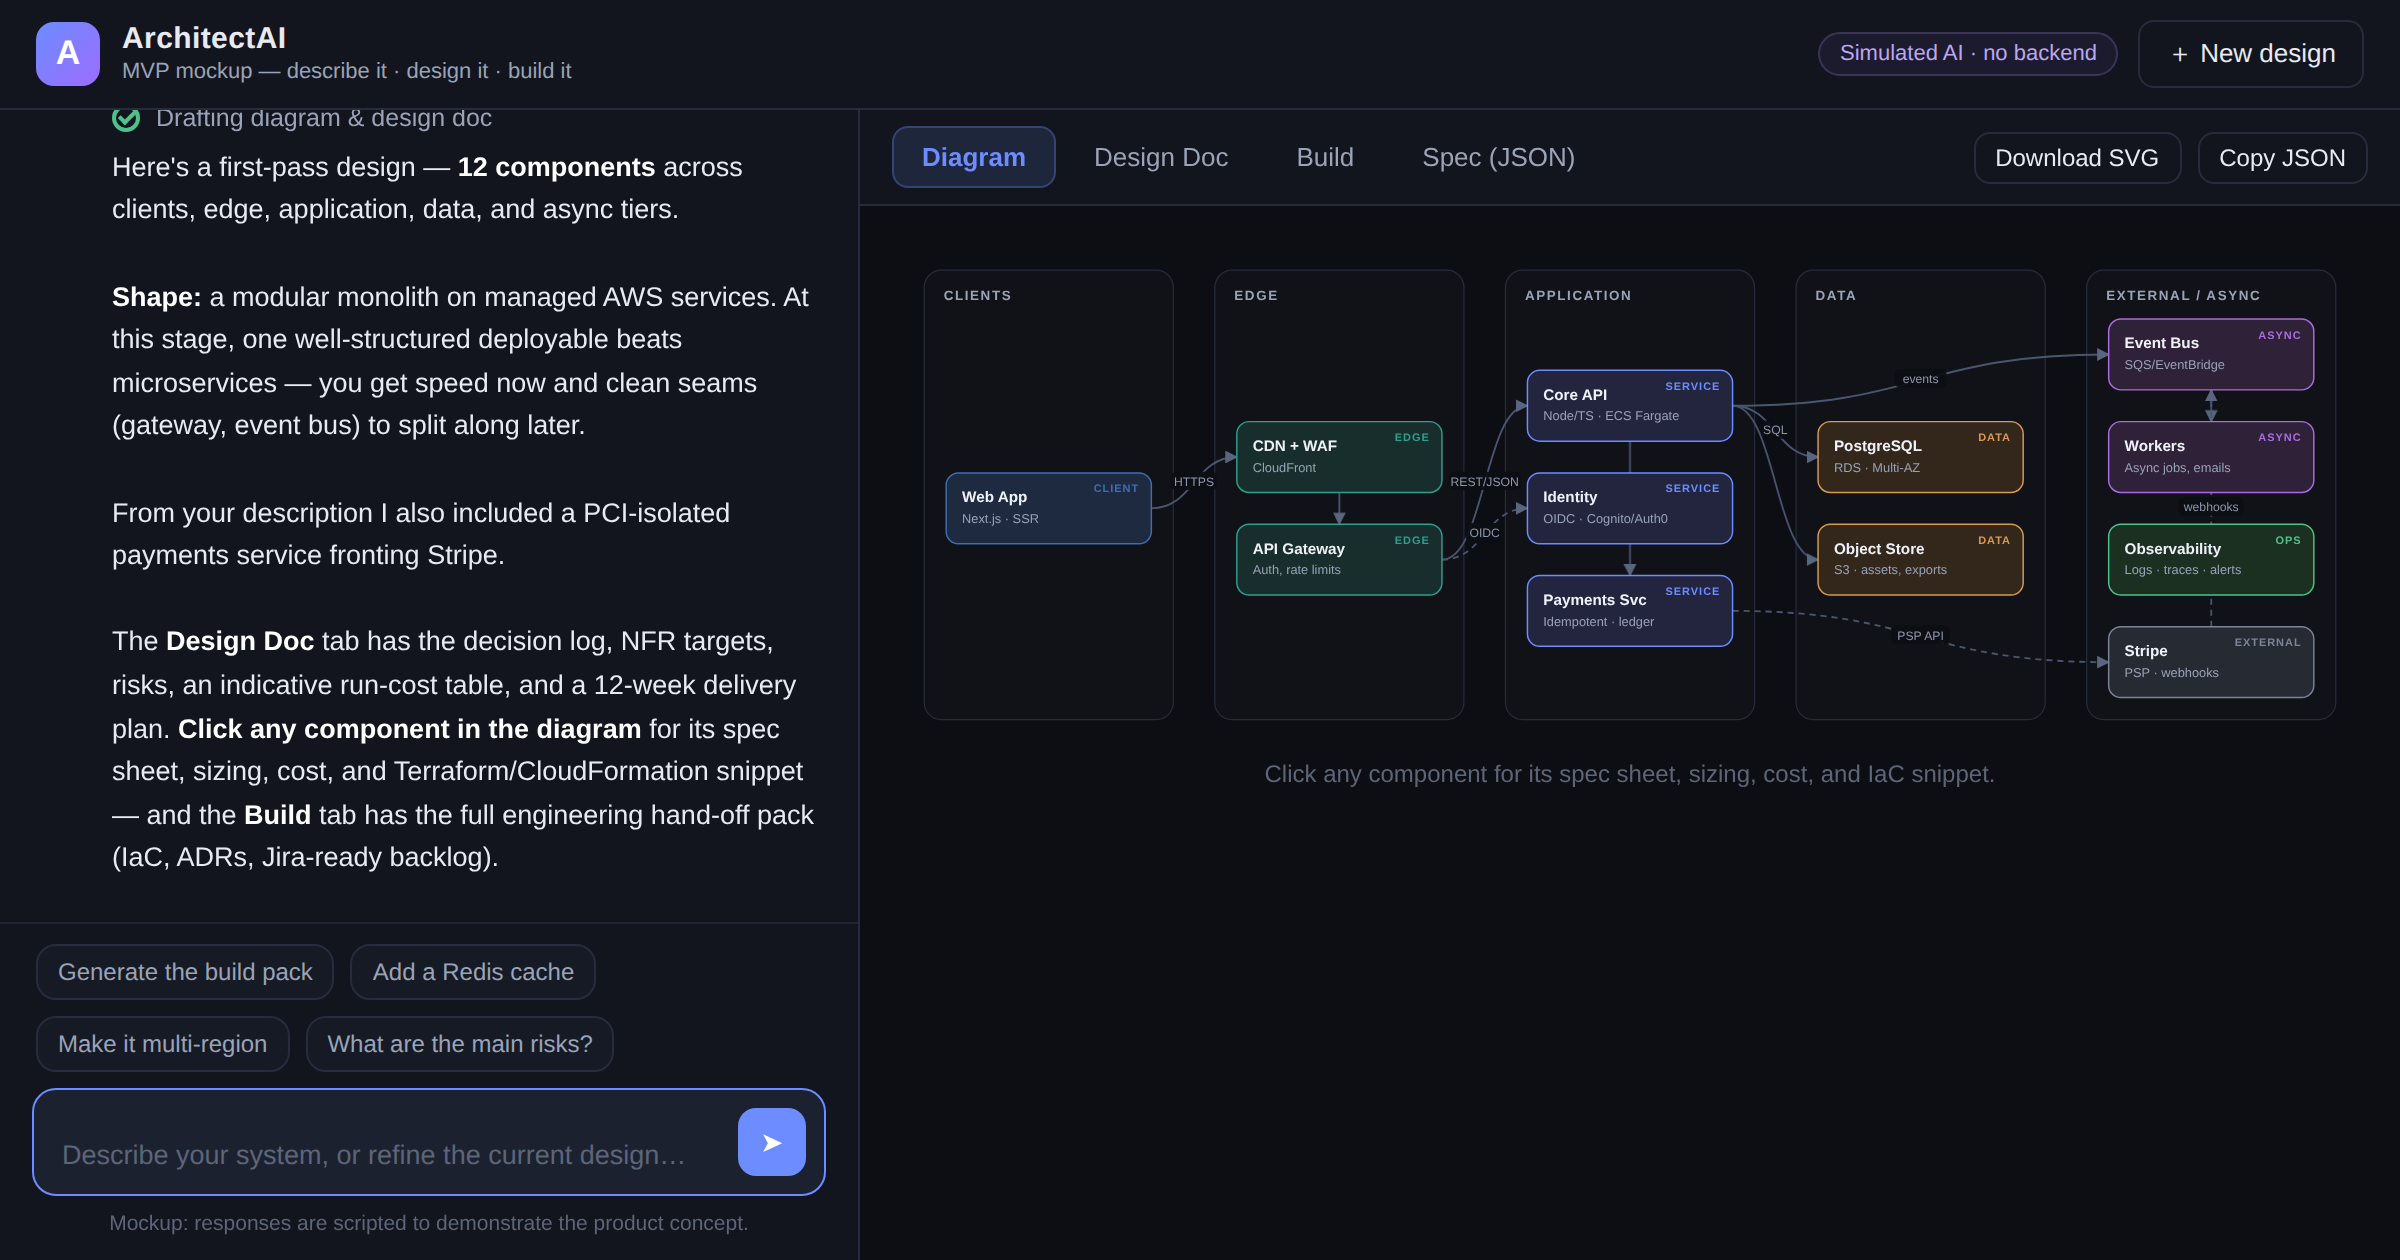
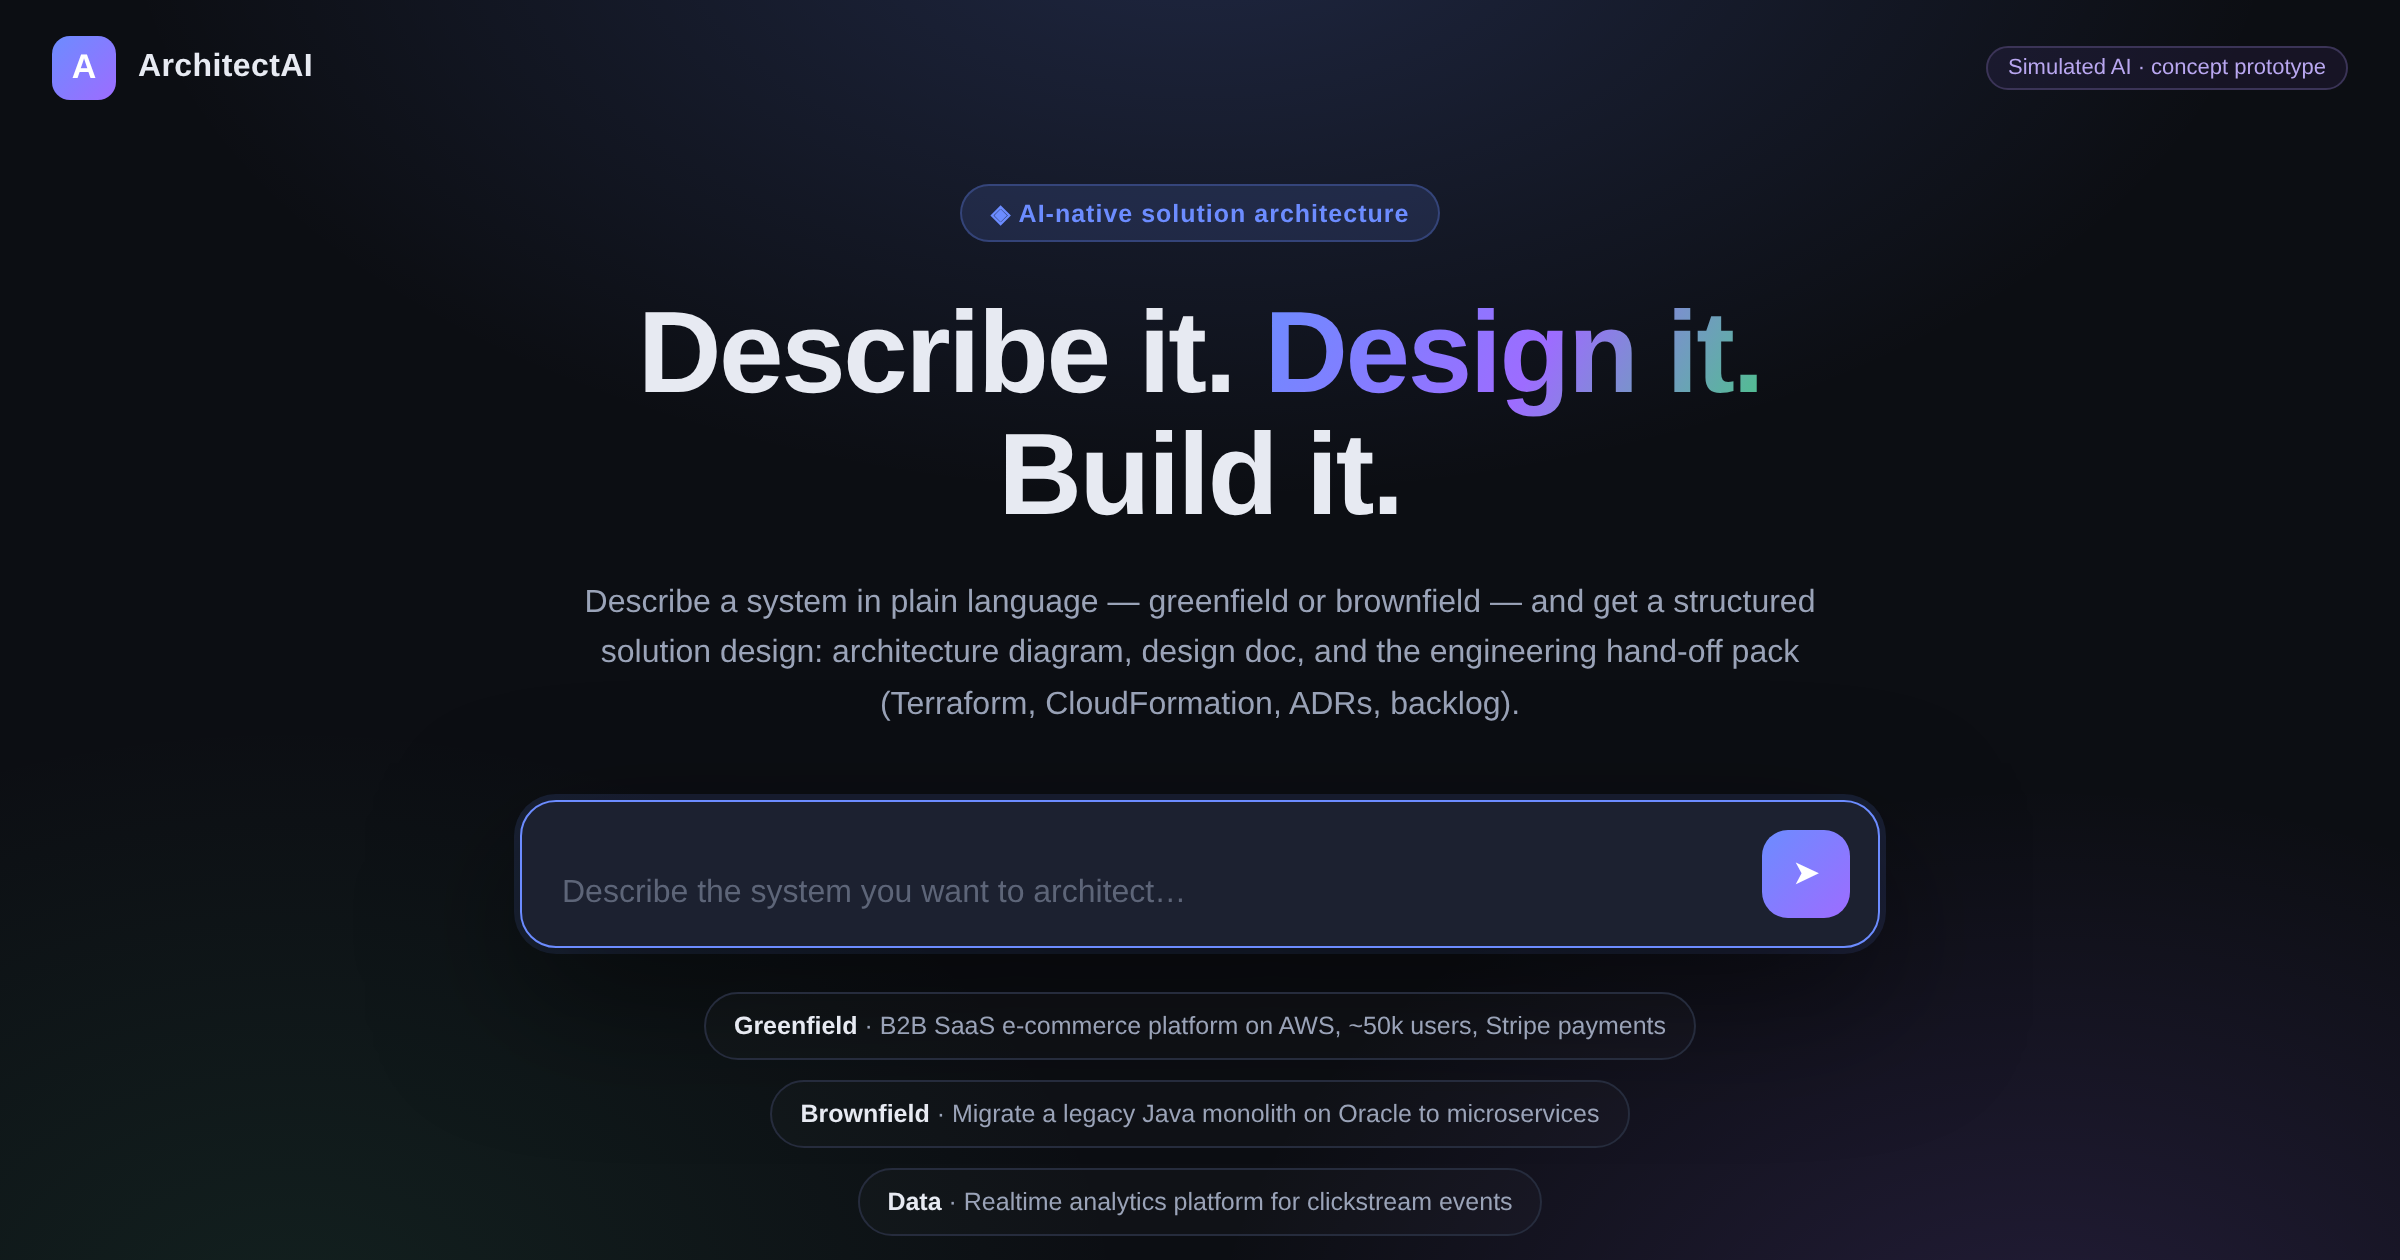
Redesign interface Base44-style: landing hero + builder workspace
Goal: describe it, design it, build it — with a Base44-like experience.

- New landing/hero entry screen: gradient backdrop, large headline,
  one prominent prompt box, and example scenario chips. This is the
  first thing visitors see.
- Submitting transitions into the builder: chat panel + the design
  output framed in a browser window (traffic-light dots, live URL pill
  that reflects the design slug), reinforcing 'build it'.
- Logo and 'New design' return to the landing prompt; reset logic
  factored into resetDesign()/goHome()/enterApp().
- Regenerated social preview to feature the new hero.
- README updated to describe the new flow.

https://claude.ai/code/session_017RfsfpWvppuw8DnKq2H5cR

diff --git a/styles.css b/styles.css
@@ -32,6 +32,168 @@ body {
   overflow: hidden;
 }
 
+/* ===================================================================
+   LANDING / HERO  (Base44-style entry screen)
+   =================================================================== */
+#landing {
+  position: fixed;
+  inset: 0;
+  z-index: 100;
+  display: flex;
+  flex-direction: column;
+  background:
+    radial-gradient(900px 500px at 50% -8%, rgba(108,140,255,.20), transparent 60%),
+    radial-gradient(700px 500px at 85% 110%, rgba(157,108,255,.16), transparent 60%),
+    radial-gradient(700px 500px at 12% 105%, rgba(76,195,138,.10), transparent 60%),
+    var(--bg);
+  overflow-y: auto;
+}
+#landing[hidden] { display: none; }
+
+.landing-nav {
+  display: flex; align-items: center; justify-content: space-between;
+  padding: 18px 26px;
+  flex: 0 0 auto;
+}
+.landing-nav .brand-name { font-size: 16px; font-weight: 700; }
+
+.hero {
+  flex: 1 1 auto;
+  display: flex;
+  flex-direction: column;
+  align-items: center;
+  justify-content: center;
+  text-align: center;
+  padding: 24px 22px 60px;
+  max-width: 820px;
+  margin: 0 auto;
+  width: 100%;
+}
+
+.hero-eyebrow {
+  font-size: 12.5px; font-weight: 600; letter-spacing: .5px;
+  color: var(--accent);
+  background: var(--accent-soft);
+  border: 1px solid rgba(108,140,255,.28);
+  padding: 6px 14px; border-radius: 999px;
+  margin-bottom: 26px;
+}
+
+.hero-title {
+  font-size: clamp(34px, 6vw, 58px);
+  line-height: 1.05;
+  font-weight: 800;
+  letter-spacing: -1.2px;
+  margin-bottom: 20px;
+}
+.hero-title .nb { white-space: nowrap; }
+.hero-title .grad {
+  background: linear-gradient(120deg, #6c8cff, #9d6cff 55%, #4cc38a);
+  -webkit-background-clip: text; background-clip: text;
+  -webkit-text-fill-color: transparent; color: transparent;
+}
+
+.hero-sub {
+  font-size: 16px;
+  line-height: 1.6;
+  color: var(--text-dim);
+  max-width: 620px;
+  margin: 0 auto 34px;
+}
+
+.hero-prompt {
+  width: 100%;
+  max-width: 680px;
+  display: flex;
+  align-items: flex-end;
+  gap: 10px;
+  background: var(--bg-input);
+  border: 1px solid var(--border);
+  border-radius: 18px;
+  padding: 14px 14px 14px 20px;
+  box-shadow: 0 24px 60px rgba(0,0,0,.45), 0 0 0 1px rgba(108,140,255,.05);
+  transition: border-color .15s, box-shadow .15s;
+}
+.hero-prompt:focus-within {
+  border-color: var(--accent);
+  box-shadow: 0 24px 70px rgba(0,0,0,.5), 0 0 0 3px var(--accent-soft);
+}
+.hero-prompt textarea {
+  flex: 1;
+  background: transparent; border: none; outline: none; resize: none;
+  color: var(--text);
+  font-family: var(--sans);
+  font-size: 16px; line-height: 1.5;
+  max-height: 160px;
+  padding-top: 6px;
+}
+.hero-prompt textarea::placeholder { color: var(--text-faint); }
+.hero-send {
+  flex: 0 0 44px; width: 44px; height: 44px;
+  border-radius: 13px; border: none;
+  background: linear-gradient(135deg, #6c8cff, #9d6cff);
+  color: #fff; font-size: 17px; cursor: pointer;
+  transition: filter .15s, transform .05s;
+}
+.hero-send:hover { filter: brightness(1.12); }
+.hero-send:active { transform: scale(.96); }
+
+.hero-chips {
+  display: flex; flex-wrap: wrap; gap: 10px;
+  justify-content: center;
+  margin-top: 22px;
+  max-width: 720px;
+}
+.hero-chips .chip {
+  font-size: 12.5px;
+  padding: 9px 14px;
+  border-radius: 999px;
+  border: 1px solid var(--border);
+  background: rgba(255,255,255,.02);
+  color: var(--text-dim);
+  cursor: pointer;
+  transition: border-color .15s, color .15s, background .15s;
+}
+.hero-chips .chip:hover { border-color: var(--accent); color: var(--text); background: var(--accent-soft); }
+.hero-chips .chip b { color: var(--text); font-weight: 600; }
+
+.hero-note { font-size: 12px; color: #5d6578; margin-top: 28px; }
+
+#app[hidden] { display: none; }
+#app { flex: 1 1 auto; display: flex; flex-direction: column; min-height: 0; animation: appfade .35s ease-out; }
+@keyframes appfade { from { opacity: 0; transform: translateY(8px); } to { opacity: 1; transform: none; } }
+
+#brand-home { cursor: pointer; }
+
+/* ===== Browser-window chrome around the workspace ===== */
+.browser-chrome {
+  display: flex; align-items: center; gap: 14px;
+  padding: 9px 14px;
+  border-bottom: 1px solid var(--border);
+  background: var(--bg-raised);
+  flex: 0 0 auto;
+}
+.chrome-dots { display: flex; gap: 7px; flex: 0 0 auto; }
+.chrome-dots i { width: 11px; height: 11px; border-radius: 50%; display: inline-block; }
+.chrome-dots i:nth-child(1) { background: #e5605e; }
+.chrome-dots i:nth-child(2) { background: #f0b454; }
+.chrome-dots i:nth-child(3) { background: #4cc38a; }
+.url-pill {
+  flex: 1 1 auto;
+  display: flex; align-items: center; gap: 8px;
+  max-width: 460px;
+  margin: 0 auto;
+  background: var(--bg-input);
+  border: 1px solid var(--border-soft);
+  border-radius: 999px;
+  padding: 6px 16px;
+  font-size: 12.5px;
+  color: var(--text-dim);
+  justify-content: center;
+}
+.url-lock { color: var(--green); font-size: 12px; }
+.chrome-actions { display: flex; gap: 8px; flex: 0 0 auto; }
+
 /* ===== Top bar ===== */
 .topbar {
   display: flex;

diff --git a/index.html b/index.html
@@ -20,12 +20,43 @@
 </head>
 <body>
 
+<!-- ===================== LANDING / HERO ===================== -->
+<section id="landing">
+  <nav class="landing-nav">
+    <div class="brand">
+      <div class="brand-mark">A</div>
+      <span class="brand-name">ArchitectAI</span>
+    </div>
+    <span class="pill pill-demo">Simulated AI · concept prototype</span>
+  </nav>
+
+  <div class="hero">
+    <div class="hero-eyebrow">◈ AI-native solution architecture</div>
+    <h1 class="hero-title"><span class="nb">Describe it.</span> <span class="nb grad">Design it.</span> <span class="nb">Build it.</span></h1>
+    <p class="hero-sub">Describe a system in plain language — greenfield or brownfield — and get a
+      structured solution design: architecture diagram, design doc, and the engineering
+      hand-off pack (Terraform, CloudFormation, ADRs, backlog).</p>
+
+    <form class="hero-prompt" id="landing-form">
+      <textarea id="landing-text" rows="1"
+        placeholder="Describe the system you want to architect…"></textarea>
+      <button type="submit" class="hero-send" id="landing-send" title="Design it">➤</button>
+    </form>
+
+    <div class="hero-chips" id="hero-chips"></div>
+    <div class="hero-note">No setup · responses are scripted to demonstrate the product concept</div>
+  </div>
+</section>
+
+<!-- ===================== APP ===================== -->
+<div id="app" hidden>
+
 <header class="topbar">
-  <div class="brand">
+  <div class="brand" id="brand-home" title="Back to start">
     <div class="brand-mark">A</div>
     <div class="brand-text">
       <span class="brand-name">ArchitectAI</span>
-      <span class="brand-tag">MVP mockup — describe it · design it · build it</span>
+      <span class="brand-tag">describe it · design it · build it</span>
     </div>
   </div>
   <div class="topbar-actions">
@@ -65,6 +96,14 @@
 
   <!-- ============ WORKSPACE ============ -->
   <section class="workspace">
+    <div class="browser-chrome">
+      <div class="chrome-dots"><i></i><i></i><i></i></div>
+      <div class="url-pill" id="url-pill"><span class="url-lock">⌁</span><span id="url-text">architectai.app/new</span></div>
+      <div class="chrome-actions">
+        <button class="btn btn-ghost btn-sm" id="btn-svg">Download SVG</button>
+        <button class="btn btn-ghost btn-sm" id="btn-json">Copy JSON</button>
+      </div>
+    </div>
     <div class="ws-header">
       <div class="ws-tabs" id="ws-tabs">
         <button class="ws-tab active" data-tab="diagram">Diagram</button>
@@ -77,8 +116,6 @@
           <button class="state-btn" data-state="current">Current state</button>
           <button class="state-btn active" data-state="target">Target state</button>
         </div>
-        <button class="btn btn-ghost btn-sm" id="btn-svg">Download SVG</button>
-        <button class="btn btn-ghost btn-sm" id="btn-json">Copy JSON</button>
       </div>
     </div>
 
@@ -138,6 +175,7 @@
   </section>
 
 </main>
+</div><!-- /#app -->
 
 <div class="toast" id="toast"></div>
 <script src="app.js"></script>

diff --git a/app.js b/app.js
@@ -1533,9 +1533,14 @@ function done() {
    WORKSPACE RENDERING
    ===================================================================== */
 
+function slugify(s) {
+  return s.toLowerCase().replace(/[^a-z0-9]+/g, "-").replace(/^-+|-+$/g, "").slice(0, 32) || "design";
+}
+
 function renderAll() {
   if (!activeSpec) return;
   $("ws-placeholder").style.display = "none";
+  $("url-text").textContent = "architectai.app/" + slugify(activeSpec.title);
 
   // state toggle for brownfield
   const toggle = $("state-toggle");
@@ -1772,8 +1777,8 @@ $("state-toggle").addEventListener("click", e => {
   renderAll();
 });
 
-// new design
-$("btn-new").addEventListener("click", () => {
+// reset everything back to a blank design
+function resetDesign() {
   activeSpec = null;
   chatMessages.innerHTML = "";
   $("chat-empty").style.display = "";
@@ -1781,6 +1786,7 @@ $("btn-new").addEventListener("click", () => {
   $("ws-placeholder").style.display = "";
   $("diagram-host").innerHTML = "";
   $("diagram-hint").hidden = true;
+  $("url-text").textContent = "architectai.app/new";
   $("doc-host").innerHTML = "";
   $("spec-host").textContent = "";
   $("build-host").textContent = "";
@@ -1792,7 +1798,55 @@ $("btn-new").addEventListener("click", () => {
     b.classList.toggle("active", b.dataset.artifact === "terraform"));
   closeDrawer();
   switchTab("diagram");
+}
+
+// landing ↔ app transitions
+function goHome() {
+  resetDesign();
+  $("app").hidden = true;
+  $("landing").hidden = false;
+  $("landing-text").value = "";
+  landingAutosize();
+  $("landing-text").focus();
+}
+
+function enterApp(text) {
+  if (!text.trim()) return;
+  $("landing").hidden = true;
+  $("app").hidden = false;
+  submitText(text.trim());
+}
+
+$("btn-new").addEventListener("click", goHome);
+$("brand-home").addEventListener("click", goHome);
+
+// landing prompt
+function landingAutosize() {
+  const t = $("landing-text");
+  t.style.height = "auto";
+  t.style.height = Math.min(t.scrollHeight, 160) + "px";
+}
+$("landing-text").addEventListener("input", landingAutosize);
+$("landing-form").addEventListener("submit", e => {
+  e.preventDefault();
+  enterApp($("landing-text").value);
 });
+$("landing-text").addEventListener("keydown", e => {
+  if (e.key === "Enter" && !e.shiftKey) {
+    e.preventDefault();
+    enterApp($("landing-text").value);
+  }
+});
+
+// hero suggestion chips (same scenarios as the in-app starters)
+for (const s of STARTERS) {
+  const b = document.createElement("button");
+  b.className = "chip";
+  b.innerHTML = s.label;
+  b.onclick = () => enterApp(s.text);
+  $("hero-chips").appendChild(b);
+}
+$("landing-text").focus();
 
 // exports
 $("btn-svg").addEventListener("click", () => {

diff --git a/README.md b/README.md
@@ -61,9 +61,12 @@ natural language ──→ structured spec (JSON) ──→ diagram + design doc
         └────────────── iterative refinement ──────────┘
 ```
 
-1. **ChatGPT-style interface.** Describe a system in the chat. The "agent" shows
-   working steps, streams its answer, and populates the workspace.
-2. **Three deep scenarios** (use the starter chips):
+1. **Base44-style entry.** A landing hero with one big prompt — *"Describe the
+   system you want to architect…"* — plus example chips. Submitting transitions
+   into the builder: a chat panel on the left and the design output on the right,
+   framed in a browser window (reinforcing *build it*). The logo or "New design"
+   returns you to the prompt.
+2. **Three deep scenarios** (use the example chips):
    - **Greenfield** — SaaS platform; keyword-aware (mentions of payments, AI/ML,
      realtime, mobile, search each add the right components and decisions).
    - **Brownfield** — legacy Java/Oracle monolith migration with a
